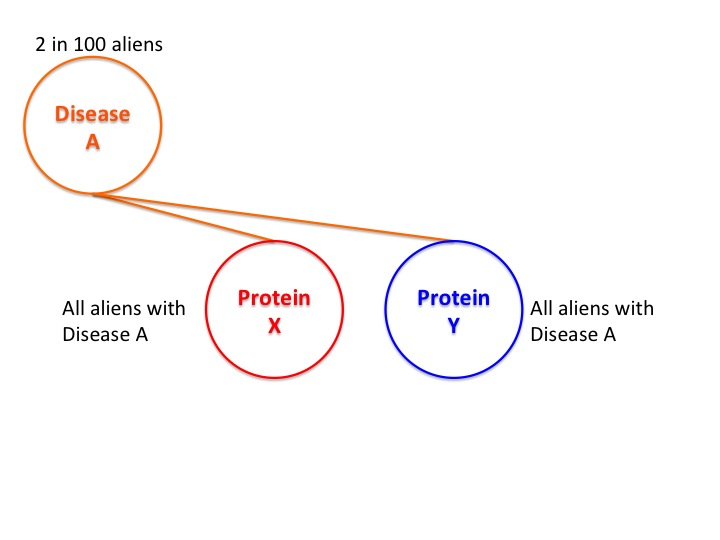
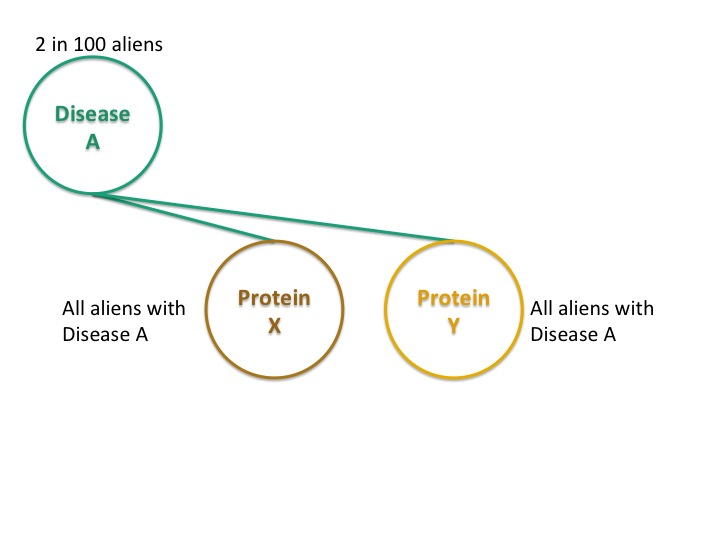
added new figures, timed how long people take on training slides

diff --git a/experiments/wednesday-expt/alien-diseases-expt.html b/experiments/wednesday-expt/alien-diseases-expt.html
@@ -93,7 +93,7 @@
         	<div>
 				<br><p class="spacing">You are a doctor on an alien planet. You know that there are four different 
 				diseases that the aliens can have. <span id="green">Disease A</span> causes the alien 
-				to have two abnormal proteins, <span id="lime-green">Protein X</span> and <span id="yellow">Protein Y</span>, 
+				to have two abnormal proteins, <span id="brown">Protein X</span> and <span id="yellow">Protein Y</span>, 
 				in their body. 2 in 100 aliens have <span id="green">Disease A</span>. <p>
 				
 				<img src="images/alien-diseases-1.jpg" style="width: 75%; height: 70%; margin-top: 20px">
@@ -105,7 +105,7 @@
         <div id="training2" class="slide js">
         	<div>
 				<br><p class="spacing">
-				<span id="orange">Disease B</span> causes the alien to have the abnormal protein <span id="lime-green">Protein
+				<span id="orange">Disease B</span> causes the alien to have the abnormal protein <span id="brown">Protein
 				X</span> in their body. 10 in 100 aliens have <span id="orange">Disease B</span>.  <p>
 				
 				<img src="images/alien-diseases-2.jpg" style="width: 75%; height: 70%; margin-top: 20px">
@@ -131,8 +131,8 @@
         <div id="training4" class="slide js">
         	<div>
 				<br><p class="spacing">
-				If an alien has both <span id="lime-green">Protein X</span> and <span id="yellow">Protein Y</span> 
-				in their body, the alien gets a <span id="purple">Fever</span>.  <p>
+				If an alien has both <span id="brown">Protein X</span> and <span id="yellow">Protein Y</span> 
+				in their body, the alien gets a <span id="lime-green">Fever</span>.  <p>
 				
 				<img src="images/alien-diseases-4.jpg" style="width: 75%; height: 70%; margin-top: 20px">
         	</div>
@@ -144,13 +144,13 @@
         	<div>
         		<p> Recap of alien diseases: </p>
 				<ul>
-				<li><span id="green">Disease A</span> (2 in 100 aliens) causes the alien to have <span id="lime-green">Protein X</span> and <span id="yellow">Protein Y</span>. </li>
-				<li><span id="orange">Disease B</span> (10 in 100 aliens) causes the alien to have <span id="lime-green">Protein X</span>. </li>
+				<li><span id="green">Disease A</span> (2 in 100 aliens) causes the alien to have <span id="brown">Protein X</span> and <span id="yellow">Protein Y</span>. </li>
+				<li><span id="orange">Disease B</span> (10 in 100 aliens) causes the alien to have <span id="brown">Protein X</span>. </li>
 				<li><span id="purple">Disease C</span> (30 in 100 aliens) and <span id="pink">Disease D</span> (10 in 100 aliens) cause the alien to have <span id="yellow">Protein Y</span>. </li>
-				<li>Having both <span id="lime-green">Protein X</span> and <span id="yellow">Protein Y</span> causes the alien to get a <span id="purple">Fever</span>.</li>
+				<li>Having both <span id="lime-green">Protein X</span> and <span id="yellow">Protein Y</span> causes the alien to get a <span id="lime-green">Fever</span>.</li>
 				</ul>
 				
-				<img src="images/alien-disease-fig.jpg" style="width: 50%; height: 50%; margin-top: 2px">
+				<img src="images/alien-diseases-4.jpg" style="width: 50%; height: 50%; margin-top: 2px">
 				
 				<br><p>You will now be asked questions about this alien world. Some will be multiple
 				choice questions, and others will be fill-in-the-blank.  </p>
@@ -163,13 +163,13 @@
         <div id="txt_box" class="slide js">
         	<div>
 				<ul>
-				<li><span id="green">Disease A</span> (2 in 100 aliens) causes the alien to have <span id="lime-green">Protein X</span> and <span id="yellow">Protein Y</span>. </li>
-				<li><span id="orange">Disease B</span> (10 in 100 aliens) causes the alien to have <span id="lime-green">Protein X</span>. </li>
+				<li><span id="green">Disease A</span> (2 in 100 aliens) causes the alien to have <span id="brown">Protein X</span> and <span id="yellow">Protein Y</span>. </li>
+				<li><span id="orange">Disease B</span> (10 in 100 aliens) causes the alien to have <span id="brown">Protein X</span>. </li>
 				<li><span id="purple">Disease C</span> (30 in 100 aliens) and <span id="pink">Disease D</span> (10 in 100 aliens) cause the alien to have <span id="yellow">Protein Y</span>. </li>
-				<li>Having both <span id="lime-green">Protein X</span> and <span id="yellow">Protein Y</span> causes the alien to get a <span id="purple">Fever</span>.</li>
+				<li>Having both <span id="lime-green">Protein X</span> and <span id="yellow">Protein Y</span> causes the alien to get a <span id="lime-green">Fever</span>.</li>
 				</ul>
 				
-				<img src="images/alien-disease-fig.jpg" style="width: 50%; height: 50%; margin-top: 0px">
+				<img src="images/alien-diseases-4.jpg" style="width: 50%; height: 50%; margin-top: 0px">
 				
 			</div>
 			<div id="critical_trial">
@@ -207,7 +207,7 @@
 				D</span>. If both <span id="red">Protein X</span> and <span id="blue">Protein Y</span> are 
 				expressed, the alien gets a <span id="purple">Fever</span>. <p>
 				
-				<img src="images/alien-disease-fig.jpg" style="width: 60%; height: 55%; margin-top: 2px">
+				<img src="images/alien-diseases-4.jpg" style="width: 60%; height: 55%; margin-top: 2px">
               
               <p id="question" class="small mtop">Please mark which of the following is a 
               <strong>better explanation</strong> of the question below.

diff --git a/experiments/wednesday-expt/js/experiment.js b/experiments/wednesday-expt/js/experiment.js
@@ -163,9 +163,9 @@ function make_slides(f) {
 			},
 			button : function() {
 				t2 = Date.now();
-				if ((t2 - t1) > 1000) {
-					_stream.apply(this);
-				}
+				time = (t2 - t1)/6000;
+				exp.time.push(time);
+				_stream.apply(this);
 			}
 		}
 	);
@@ -181,9 +181,9 @@ function make_slides(f) {
 			},
 			button : function() {
 				t2 = Date.now();
-				if ((t2 - t1) > 1000) {
-					_stream.apply(this);
-				}
+				time = (t2 - t1)/6000;
+				exp.time.push(time);
+				_stream.apply(this);
 			}
 		}
 	);
@@ -199,9 +199,9 @@ function make_slides(f) {
 			},
 			button : function() {
 				t2 = Date.now();
-				if ((t2 - t1) > 1000) {
-					_stream.apply(this);
-				}
+				time = (t2 - t1)/6000;
+				exp.time.push(time);
+				_stream.apply(this);
 			}
 		}
 	);
@@ -217,9 +217,9 @@ function make_slides(f) {
 			},
 			button : function() {
 				t2 = Date.now();
-				if ((t2 - t1) > 1000) {
-					_stream.apply(this);
-				}
+				time = (t2 - t1)/6000;
+				exp.time.push(time);
+				_stream.apply(this);
 			}
 		}
 	);
@@ -235,9 +235,9 @@ function make_slides(f) {
 			},
 			button : function() {
 				t2 = Date.now();
-				if ((t2 - t1) > 1000) {
-					_stream.apply(this);
-				}
+				time = (t2 - t1)/6000;
+				exp.time.push(time);
+				_stream.apply(this);
 			}
 		}
 	);
@@ -265,7 +265,7 @@ function make_slides(f) {
 			
 			catch_trial_handle : function(stim) {
 				//for RT 
-				exp.trial_start = Date.now()
+				t1 = Date.now();
 			
 				exp.trial_type = "catch";
 				exp.data_trials.push(stim);
@@ -293,7 +293,7 @@ function make_slides(f) {
 				//NOTE: BRING UP PROMPT BOX IF NO INPUT
 				
 				//for RT 
-				exp.trial_start = Date.now()
+				t1 = Date.now();
 				
 				exp.trial_type = "critical";
 				exp.data_trials.push(stim);
@@ -324,9 +324,9 @@ function make_slides(f) {
                     
                 //console.log(res);
                 if(exp.trial_type==="critical" && !_.contains(_.values(res), "")){
-                	//get RT (in ms)
-                	exp.trial_end = Date.now();
-                	RT = (exp.trial_end - exp.trial_start)/6000;
+                	//get RT (in s)
+                	t2 = Date.now();
+                	time_on_slide = (t2 - t1)/6000;
                 	
                     //res["answered"]= 1 * ! _.isEmpty(_.filter(_.values(res), function(x){ return !isNumber(x);}));
                     
@@ -334,16 +334,16 @@ function make_slides(f) {
                     _.last(exp.data_trials)["expl"] = res["expl"];
                     //_.last(exp.data_trials)["answered"]=res["answered"];
                     _.last(exp.data_trials)["trial_type"]=exp.trial_type;
-                    _.last(exp.data_trials)["RT"] = RT;
+                    _.last(exp.data_trials)["time_on_slide"] = time_on_slide;
                     _.last(exp.data_trials)["condition"] = exp.current_cond;
                 //clear text box, move to next trial
                 $('input[name="expl"]').val('');
 				_stream.apply(this);
 				}
     			if (exp.trial_type==="catch" && $('input[type=radio]:checked').size() > 0) {
-                	//get RT (in ms)
-                	exp.trial_end = Date.now();
-                	RT = (exp.trial_end - exp.trial_start)/6000;
+                	//get RT (in s)
+                	t2 = Date.now();
+                	time_on_slide = (t2 - t1)/6000;
     			
     				//figure out whether their answer was right or wrong
     				var ans_chosen = [];
@@ -358,7 +358,7 @@ function make_slides(f) {
 						//put response & trial data in exp.data_trials
 						_.last(exp.data_trials)["ans_chosen"] = ans_chosen;
 						_.last(exp.data_trials)["trial_type"]=exp.trial_type;
-						_.last(exp.data_trials)["RT"] = RT;
+						_.last(exp.data_trials)["time_on_slide"] = time_on_slide;
 						//This unselects the button for the next trial
 						$('input[name="radio_button"]').attr('checked',false);
 						$('#feedback').hide();
@@ -613,7 +613,8 @@ function make_slides(f) {
                     trials : exp.data_trials,
                     system : exp.system,
                     condition : exp.condition,
-                    subj_data : exp.subj_data
+                    subj_data : exp.subj_data,
+                    time_on_training: exp.time
                 };
                 setTimeout(function() {turk.submit(exp.data);}, 1000);
             }
@@ -636,6 +637,7 @@ function init() {
     'training4', 'training5', 'txt_box', 'subj_info', 'thanks'];
     //set_condition();
     exp.condition = {dependent: "text_box", independent: "info/question"};
+    exp.time = []
 
     //allow to click through experiment
     exp.debug=1;
